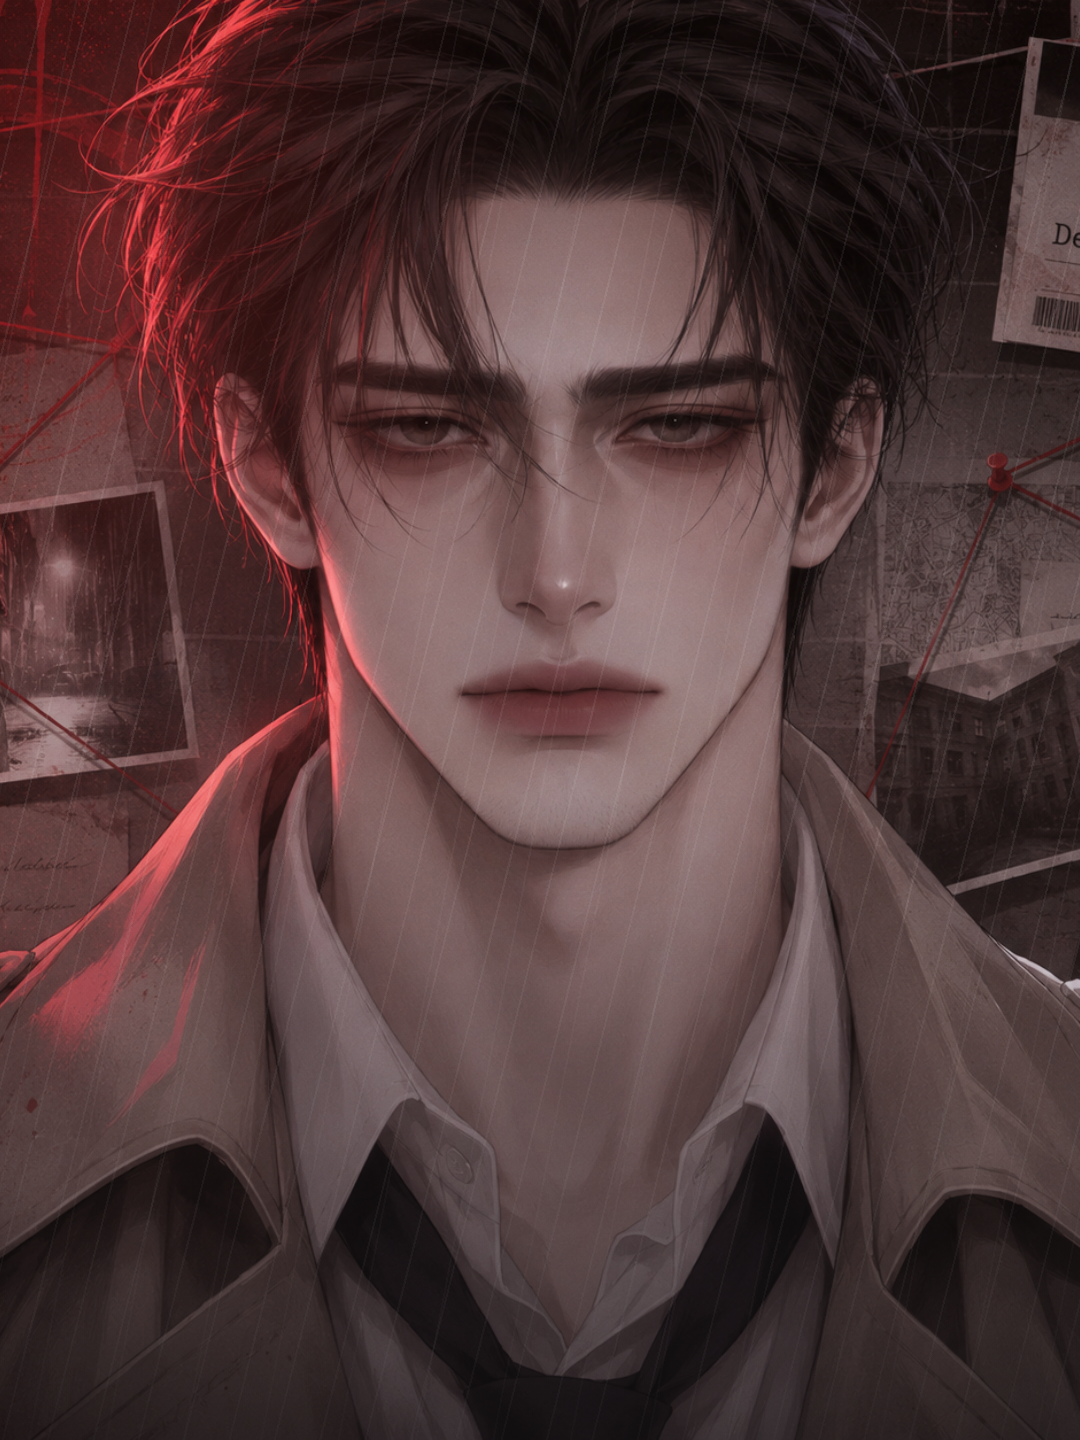
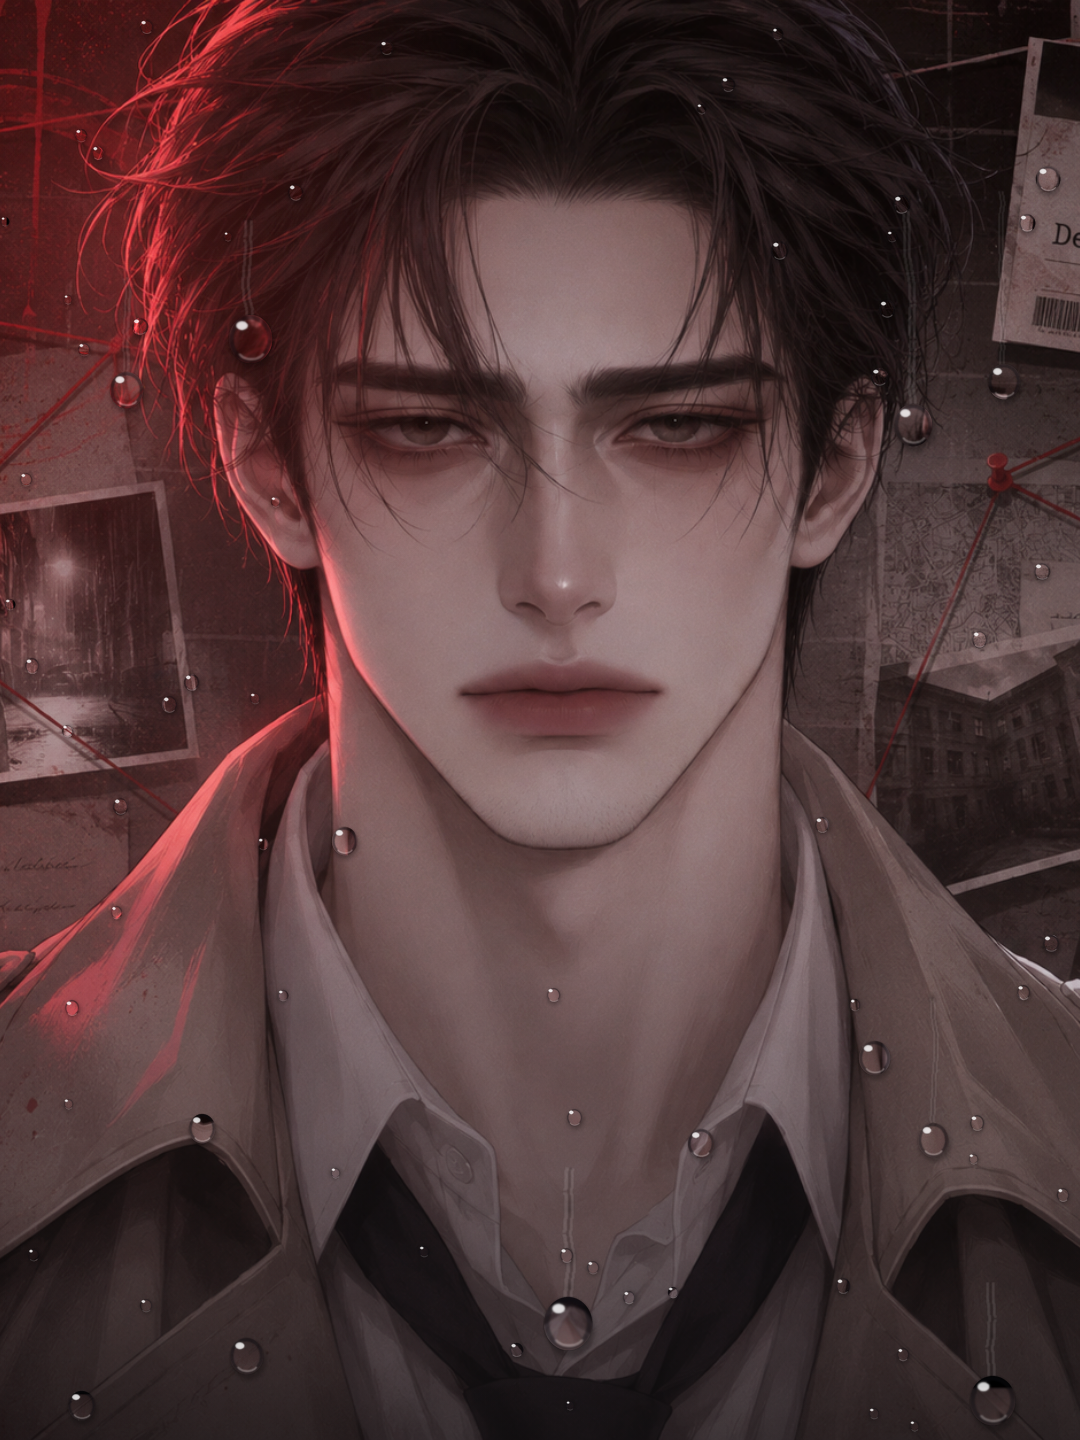
Replace rain streaks with realistic droplets on Raymond covers; remove stripes from page and opening
Claude-Session: https://claude.ai/code/session_0117stSbLpZieGnKXEJWGymk

diff --git a/레이먼드정_커스텀설명.html b/레이먼드정_커스텀설명.html
@@ -4,7 +4,7 @@
 <style>
 :root{--ry:url("https://raw.githubusercontent.com/akari383/-/a91aadb1ce422918040bef37942483964fbcbaa1/images/raymond.jpg");--bg:#0b0b0d;--s1:#141417;--s2:#1d1d22;--ln:#ffffff14;--tx:#ece8e1;--mu:#a39e95;--dm:#6f6a63;--pa:#e9e0cc;--pa2:#d8ccb1;--ink:#2a241c;--rd:#c0392b;--ne:#ff5a5a;--am:#f0b44c;--gr:#7fbf8a;--se:"Noto Serif KR",serif;--mo:"IBM Plex Mono",monospace;color-scheme:dark}
 *{box-sizing:border-box}
-body{margin:0;color:var(--tx);font-family:Pretendard,"Noto Sans KR",sans-serif;font-size:14.5px;line-height:1.65;letter-spacing:-.01em;word-break:keep-all;padding:16px max(16px,env(safe-area-inset-left,0)) 48px;background:repeating-linear-gradient(104deg,#0000 0 26px,#ffffff07 26px 27px),radial-gradient(80% 32% at 50% 0,#4a1414 0,#0b0b0d00 70%),var(--bg)}
+body{margin:0;color:var(--tx);font-family:Pretendard,"Noto Sans KR",sans-serif;font-size:14.5px;line-height:1.65;letter-spacing:-.01em;word-break:keep-all;padding:16px max(16px,env(safe-area-inset-left,0)) 48px;background:radial-gradient(80% 32% at 50% 0,#4a1414 0,#0b0b0d00 70%),var(--bg)}
 .w{max-width:480px;margin:0 auto;display:grid;gap:16px}
 .sg{position:relative;text-align:center;padding:20px 12px 16px;border:1.5px solid #ff5a5a40;border-radius:18px;background:#120c0d;box-shadow:inset 0 0 30px #ff5a5a14,0 0 40px #ff5a5a14}
 .ne{font-family:var(--se);font-weight:700;font-size:25px;letter-spacing:.02em;color:#ffd9d9;text-shadow:0 0 6px #ff5a5a,0 0 16px #ff5a5a,0 0 32px #ff3b3b99}
@@ -16,7 +16,6 @@ body{margin:0;color:var(--tx);font-family:Pretendard,"Noto Sans KR",sans-serif;f
 .pp{position:relative;background:var(--pa);color:var(--ink);border-radius:4px 14px 14px 14px;padding:18px;box-shadow:0 20px 40px #0009;background-image:radial-gradient(120% 80% at 100% 0,#00000014,#0000 60%)}
 .ph{position:relative;aspect-ratio:5/4;margin:8px 4px 34px;background:var(--ry) 50% 30%/cover;border:7px solid #fff;border-bottom-width:30px;box-shadow:0 12px 24px #0007;transform:rotate(-1.4deg)}
 .ph::before{content:"";position:absolute;left:26px;top:-16px;width:14px;height:42px;border:2.5px solid #9aa0a8;border-radius:9px;transform:rotate(8deg)}
-.ph::after{content:"";position:absolute;inset:0;background:repeating-linear-gradient(104deg,#0000 0 18px,#ffffff14 18px 19px)}
 .ph b{position:absolute;left:0;right:0;bottom:-28px;text-align:center;font-family:"Nanum Pen Script",cursive;font-weight:400;font-size:18px;color:#4a4a4a}
 .nm h1{margin:0;font-family:var(--se);font-size:28px;line-height:1.15}
 .nm p{margin:3px 0 0;font-size:12.5px;color:#5c5446}

diff --git a/레이먼드정_시작메시지.html b/레이먼드정_시작메시지.html
@@ -1,6 +1,6 @@
 <link rel="stylesheet" href="https://fonts.googleapis.com/css2?family=Noto+Sans+KR:wght@400;500;700;800&family=Noto+Serif+KR:wght@500;700&family=IBM+Plex+Mono:wght@400;500&family=Nanum+Pen+Script&display=swap">
 <style>
-.ro{--tx:#ece8e1;--mu:#a39e95;--dm:#6f6a63;--pa:#e9e0cc;--ink:#2a241c;--ne:#ff5a5a;--am:#f0b44c;--se:"Noto Serif KR",serif;--mo:"IBM Plex Mono",ui-monospace,monospace;max-width:440px;margin:8px auto;color:var(--tx);border:1px solid #ffffff1f;border-radius:22px;overflow:hidden;font-family:Pretendard,"Noto Sans KR","Apple SD Gothic Neo",sans-serif;font-size:14px;line-height:1.65;letter-spacing:-.01em;word-break:keep-all;background:repeating-linear-gradient(104deg,#0000 0 24px,#ffffff08 24px 25px),radial-gradient(90% 40% at 50% 0,#4a1414,#0d0d1000 70%),#0d0d10}
+.ro{--tx:#ece8e1;--mu:#a39e95;--dm:#6f6a63;--pa:#e9e0cc;--ink:#2a241c;--ne:#ff5a5a;--am:#f0b44c;--se:"Noto Serif KR",serif;--mo:"IBM Plex Mono",ui-monospace,monospace;max-width:440px;margin:8px auto;color:var(--tx);border:1px solid #ffffff1f;border-radius:22px;overflow:hidden;font-family:Pretendard,"Noto Sans KR","Apple SD Gothic Neo",sans-serif;font-size:14px;line-height:1.65;letter-spacing:-.01em;word-break:keep-all;background:radial-gradient(90% 40% at 50% 0,#4a1414,#0d0d1000 70%),#0d0d10}
 .ro *{box-sizing:border-box}
 .ro-hd{text-align:center;padding:20px 16px 14px;border-bottom:1px solid #ffffff12}
 .ro-ep{font:500 11px var(--mo);letter-spacing:.18em;color:var(--ne)}

diff --git a/레이먼드정_리핀_캐릭터.md b/레이먼드정_리핀_캐릭터.md
@@ -259,7 +259,7 @@
 ```html
 <link rel="stylesheet" href="https://fonts.googleapis.com/css2?family=Noto+Sans+KR:wght@400;500;700;800&family=Noto+Serif+KR:wght@500;700&family=IBM+Plex+Mono:wght@400;500&family=Nanum+Pen+Script&display=swap">
 <style>
-.ro{--tx:#ece8e1;--mu:#a39e95;--dm:#6f6a63;--pa:#e9e0cc;--ink:#2a241c;--ne:#ff5a5a;--am:#f0b44c;--se:"Noto Serif KR",serif;--mo:"IBM Plex Mono",ui-monospace,monospace;max-width:440px;margin:8px auto;color:var(--tx);border:1px solid #ffffff1f;border-radius:22px;overflow:hidden;font-family:Pretendard,"Noto Sans KR","Apple SD Gothic Neo",sans-serif;font-size:14px;line-height:1.65;letter-spacing:-.01em;word-break:keep-all;background:repeating-linear-gradient(104deg,#0000 0 24px,#ffffff08 24px 25px),radial-gradient(90% 40% at 50% 0,#4a1414,#0d0d1000 70%),#0d0d10}
+.ro{--tx:#ece8e1;--mu:#a39e95;--dm:#6f6a63;--pa:#e9e0cc;--ink:#2a241c;--ne:#ff5a5a;--am:#f0b44c;--se:"Noto Serif KR",serif;--mo:"IBM Plex Mono",ui-monospace,monospace;max-width:440px;margin:8px auto;color:var(--tx);border:1px solid #ffffff1f;border-radius:22px;overflow:hidden;font-family:Pretendard,"Noto Sans KR","Apple SD Gothic Neo",sans-serif;font-size:14px;line-height:1.65;letter-spacing:-.01em;word-break:keep-all;background:radial-gradient(90% 40% at 50% 0,#4a1414,#0d0d1000 70%),#0d0d10}
 .ro *{box-sizing:border-box}
 .ro-hd{text-align:center;padding:20px 16px 14px;border-bottom:1px solid #ffffff12}
 .ro-ep{font:500 11px var(--mo);letter-spacing:.18em;color:var(--ne)}
@@ -647,7 +647,7 @@
 
 ## 10. 커스텀 설명 (HTML)
 
-> 리핀 커스텀 설명 칸에 아래 코드를 통째로 붙여 넣습니다. 10,378자로 20,000자 제한 안에 들어갑니다.
+> 리핀 커스텀 설명 칸에 아래 코드를 통째로 붙여 넣습니다. 10,184자로 20,000자 제한 안에 들어갑니다.
 > 레이먼드 사진은 레포에 올린 파일을 불러옵니다(`images/raymond.jpg`). 레포가 공개 상태여야 사진이 보입니다.
 > 미리보기: `레이먼드정_커스텀설명_미리보기.png`
 
@@ -658,7 +658,7 @@
 <style>
 :root{--ry:url("https://raw.githubusercontent.com/akari383/-/a91aadb1ce422918040bef37942483964fbcbaa1/images/raymond.jpg");--bg:#0b0b0d;--s1:#141417;--s2:#1d1d22;--ln:#ffffff14;--tx:#ece8e1;--mu:#a39e95;--dm:#6f6a63;--pa:#e9e0cc;--pa2:#d8ccb1;--ink:#2a241c;--rd:#c0392b;--ne:#ff5a5a;--am:#f0b44c;--gr:#7fbf8a;--se:"Noto Serif KR",serif;--mo:"IBM Plex Mono",monospace;color-scheme:dark}
 *{box-sizing:border-box}
-body{margin:0;color:var(--tx);font-family:Pretendard,"Noto Sans KR",sans-serif;font-size:14.5px;line-height:1.65;letter-spacing:-.01em;word-break:keep-all;padding:16px max(16px,env(safe-area-inset-left,0)) 48px;background:repeating-linear-gradient(104deg,#0000 0 26px,#ffffff07 26px 27px),radial-gradient(80% 32% at 50% 0,#4a1414 0,#0b0b0d00 70%),var(--bg)}
+body{margin:0;color:var(--tx);font-family:Pretendard,"Noto Sans KR",sans-serif;font-size:14.5px;line-height:1.65;letter-spacing:-.01em;word-break:keep-all;padding:16px max(16px,env(safe-area-inset-left,0)) 48px;background:radial-gradient(80% 32% at 50% 0,#4a1414 0,#0b0b0d00 70%),var(--bg)}
 .w{max-width:480px;margin:0 auto;display:grid;gap:16px}
 .sg{position:relative;text-align:center;padding:20px 12px 16px;border:1.5px solid #ff5a5a40;border-radius:18px;background:#120c0d;box-shadow:inset 0 0 30px #ff5a5a14,0 0 40px #ff5a5a14}
 .ne{font-family:var(--se);font-weight:700;font-size:25px;letter-spacing:.02em;color:#ffd9d9;text-shadow:0 0 6px #ff5a5a,0 0 16px #ff5a5a,0 0 32px #ff3b3b99}
@@ -670,7 +670,6 @@ body{margin:0;color:var(--tx);font-family:Pretendard,"Noto Sans KR",sans-serif;f
 .pp{position:relative;background:var(--pa);color:var(--ink);border-radius:4px 14px 14px 14px;padding:18px;box-shadow:0 20px 40px #0009;background-image:radial-gradient(120% 80% at 100% 0,#00000014,#0000 60%)}
 .ph{position:relative;aspect-ratio:5/4;margin:8px 4px 34px;background:var(--ry) 50% 30%/cover;border:7px solid #fff;border-bottom-width:30px;box-shadow:0 12px 24px #0007;transform:rotate(-1.4deg)}
 .ph::before{content:"";position:absolute;left:26px;top:-16px;width:14px;height:42px;border:2.5px solid #9aa0a8;border-radius:9px;transform:rotate(8deg)}
-.ph::after{content:"";position:absolute;inset:0;background:repeating-linear-gradient(104deg,#0000 0 18px,#ffffff14 18px 19px)}
 .ph b{position:absolute;left:0;right:0;bottom:-28px;text-align:center;font-family:"Nanum Pen Script",cursive;font-weight:400;font-size:18px;color:#4a4a4a}
 .nm h1{margin:0;font-family:var(--se);font-size:28px;line-height:1.15}
 .nm p{margin:3px 0 0;font-size:12.5px;color:#5c5446}
